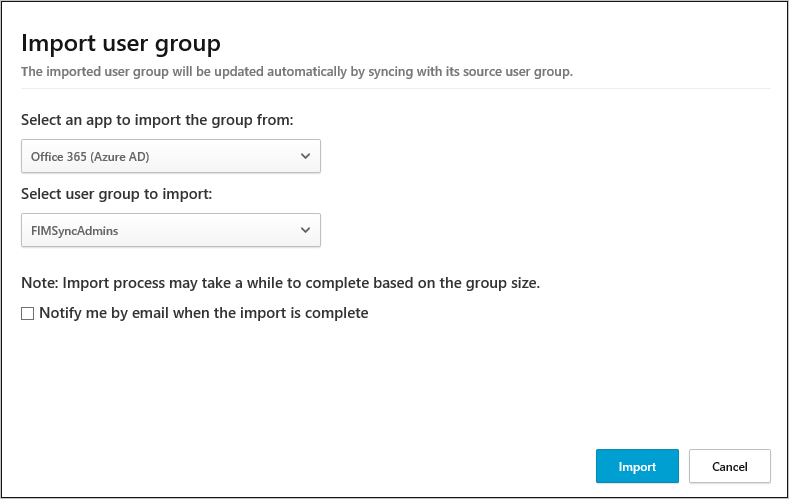
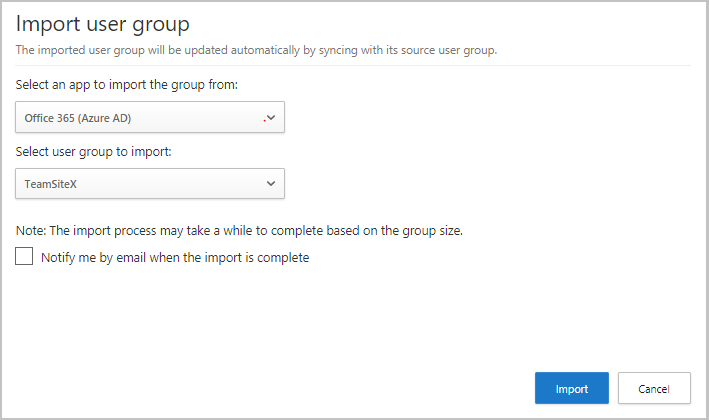
png14-modify text and screenshots due to UI change

diff --git a/CloudAppSecurityDocs/user-groups.md b/CloudAppSecurityDocs/user-groups.md
@@ -7,7 +7,7 @@ keywords:
 author: rkarlin
 ms.author: rkarlin
 manager: mbaldwin
-ms.date: 12/10/2018
+ms.date: 12/14/2018
 ms.topic: conceptual
 ms.prod:
 ms.service: cloud-app-security
@@ -25,13 +25,13 @@ ms.suite: ems
 ms.custom: seodec18
 
 ---
-# Import user groups from connected apps
+# Importing user groups from connected apps
 
 *Applies to: Microsoft Cloud App Security*
 
 When you connect apps using API connectors, Microsoft Cloud App Security enables you to import user groups, for example from Office 365 and Azure Active Directory.
 There are two types of user groups: 
-- Automatic groups </br>Automatic groups are created by default by Microsoft Cloud App Security. For example, there is an automatic user group called **External** which combines all users from all apps who are external to your organization and have access to files or were in user activities in your tenant.
+- Automatic groups </br>Automatic groups are created by default by Microsoft Cloud App Security. For example, there's an automatic user group called **External** that combines all users from all apps who are external to your organization and have access to files or were in user activities in your tenant.
  The following automatic groups exist in Cloud App Security:
   - External
   - Dropbox administrator
@@ -40,10 +40,14 @@ There are two types of user groups:
   - Box administrator
   - All Salesforce standard and custom profiles, for example, Salesforce System Administrator. See the full list [here](https://help.salesforce.com/articleView?id=standard_profiles.htm&language=en&type=0).
 
-- Imported groups</br>You can import any group from your connected apps. For example, you can import user groups from Office 365 (Active Directory) and other connected apps. This enables you to look for threats in your org, not by looking at the whole org or at a specific user, but by looking at a specific group. 
+- Imported groups</br>You can import any group from your connected apps. For example, you can import user groups from Office 365 (Active Directory) and other connected apps. These groups enable you to look for threats in your org, not by looking at the whole org or at a specific user, but by looking at a specific group. 
 
-Typical scenarios that leverage imported user groups include: you can investigate which docs the HR people look at, or you can check if there's something unusual happening in the executive group, or if someone from the admin group performed an activity outside the US. 
-To import user groups:
+Typical scenarios that use imported user groups include:
+   - Investigating which docs the HR people look at
+   - Check if there's something unusual happening in the executive group
+   - Find if someone from the admin group performed an activity outside the US. 
+
+## How to import user groups
 
 1. In the menu bar, click the settings icon ![settings icon](./media/settings-icon.png "settings icon") and select **User groups**.
 2. Click **Import user group**.
@@ -51,10 +55,10 @@ To import user groups:
    ![Import user groups](./media/user-groups-add.png)
 
 3. Select the app from which to import the user group. The list of apps will depend on which App Connectors you deployed.
-4. Select the group to import. The list of available groups will be a list of all the existing user groups in the app itself. If you want to add a new group, you have to do it directly in the app itself, and then when it appears here, select it.
+4. Select the group to import. The list of available groups will be a list of all the existing user groups in the app itself. If you want to add a new group, you have to do it directly in the app itself. Then, when the group appears in the list here, select it.
 5. Depending on the size of the group, import can take up to an hour. You can select the option to be notified by email when the import process is complete.
 6. Click **Import**. After you import a group, Cloud App Security automatically syncs the group members, just like Active Directory Connect.
-7. After the import is complete, from the **User groups** page you can click on a specific group to view a list of all the members of the group. You can also click on any member of the group to further drill down into the details of a specific account and view which apps they use and a summary of the account including graphs of the user and their activity.
+7. After the import is complete, from the **User groups** page you can click on a specific group to view a list of all the members of the group. Click on any member of the group to further drill down into the details of a specific account. You can view which apps they use and a summary of the account including graphs of the user and their activity.
 
 Importing groups enables you to select those groups as filters when investigating in the **Activity log** and when creating policies. 
 
@@ -65,7 +69,6 @@ Importing groups enables you to select those groups as filters when investigatin
 For more information on using the User group filters, see [Activities](activity-filters.md).
 
 
-    
 ## Next steps
  
 [Set up Cloud Discovery](set-up-cloud-discovery.md)   
